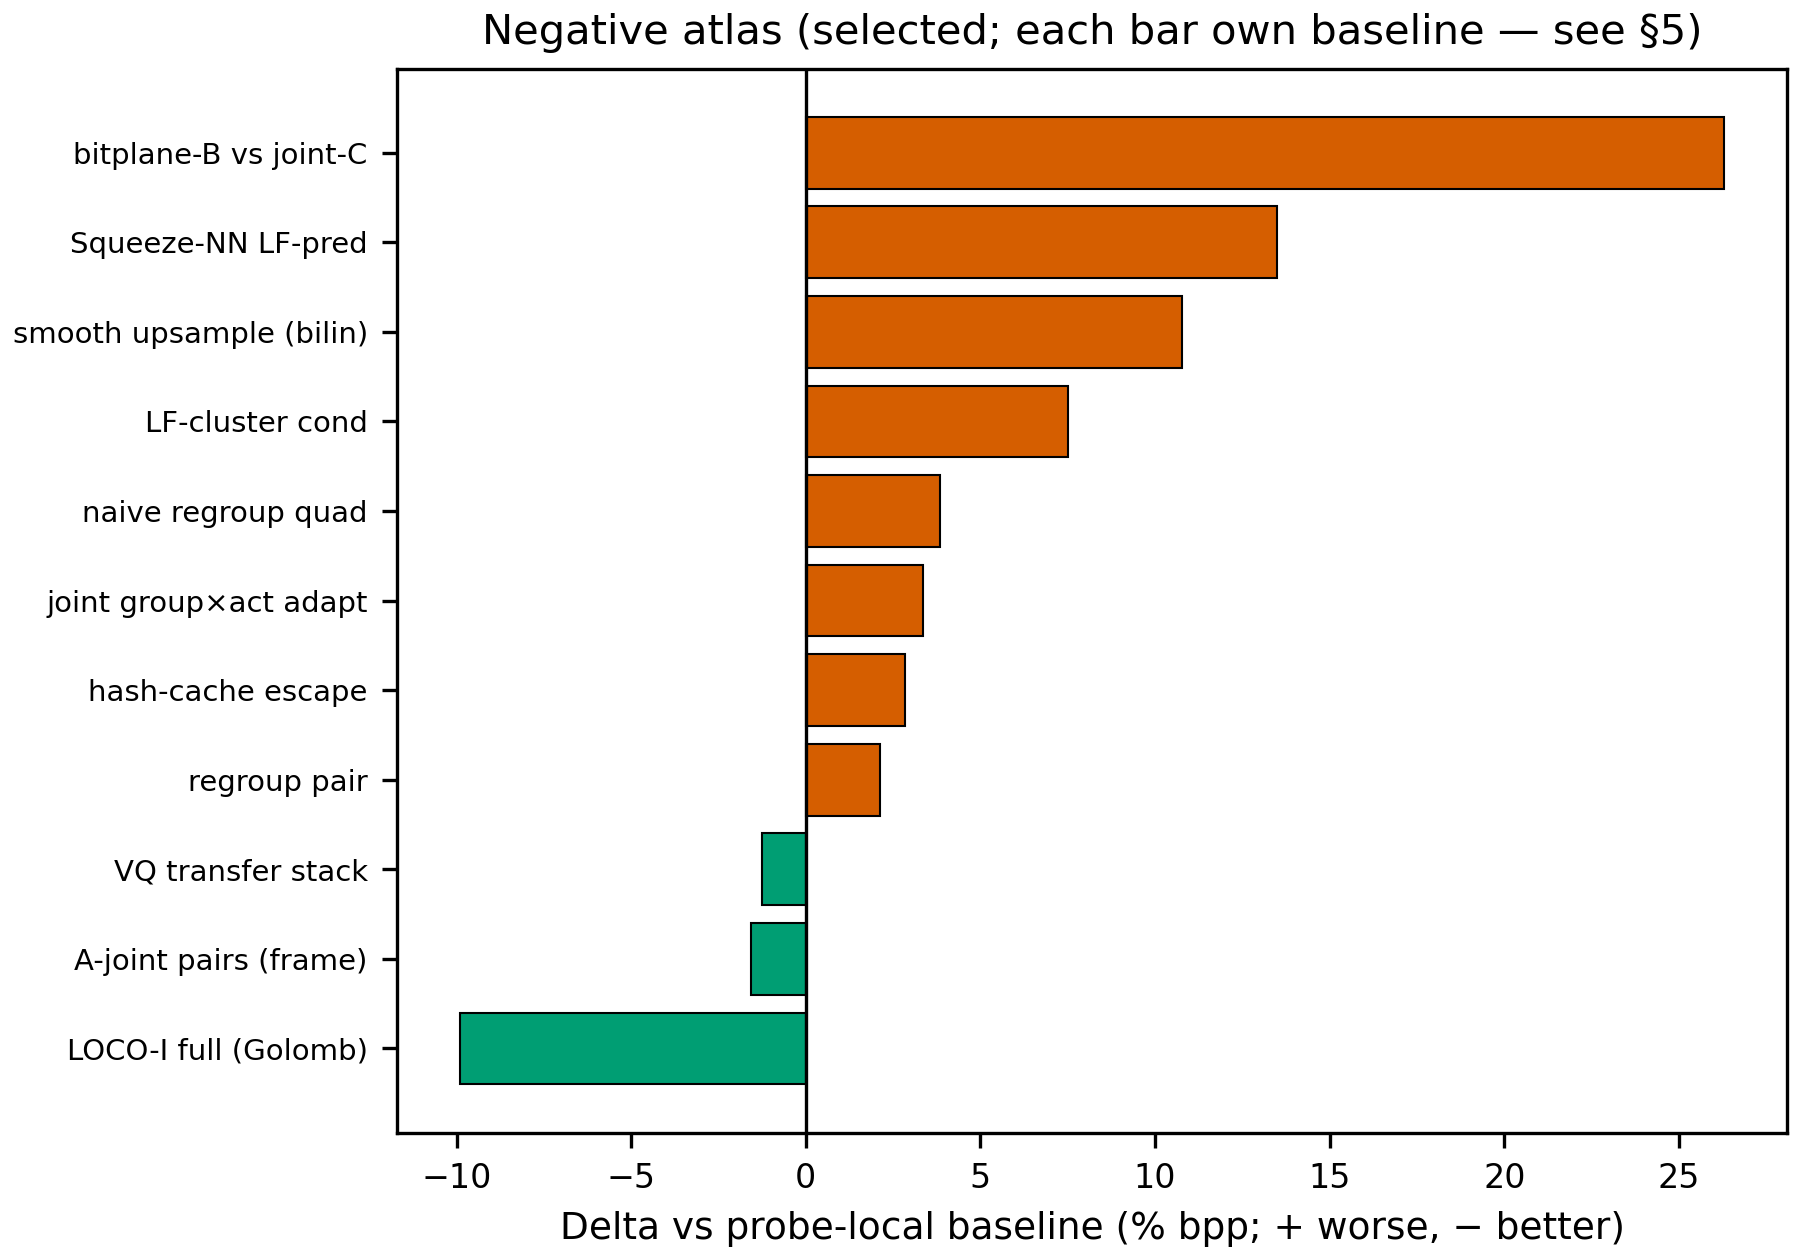
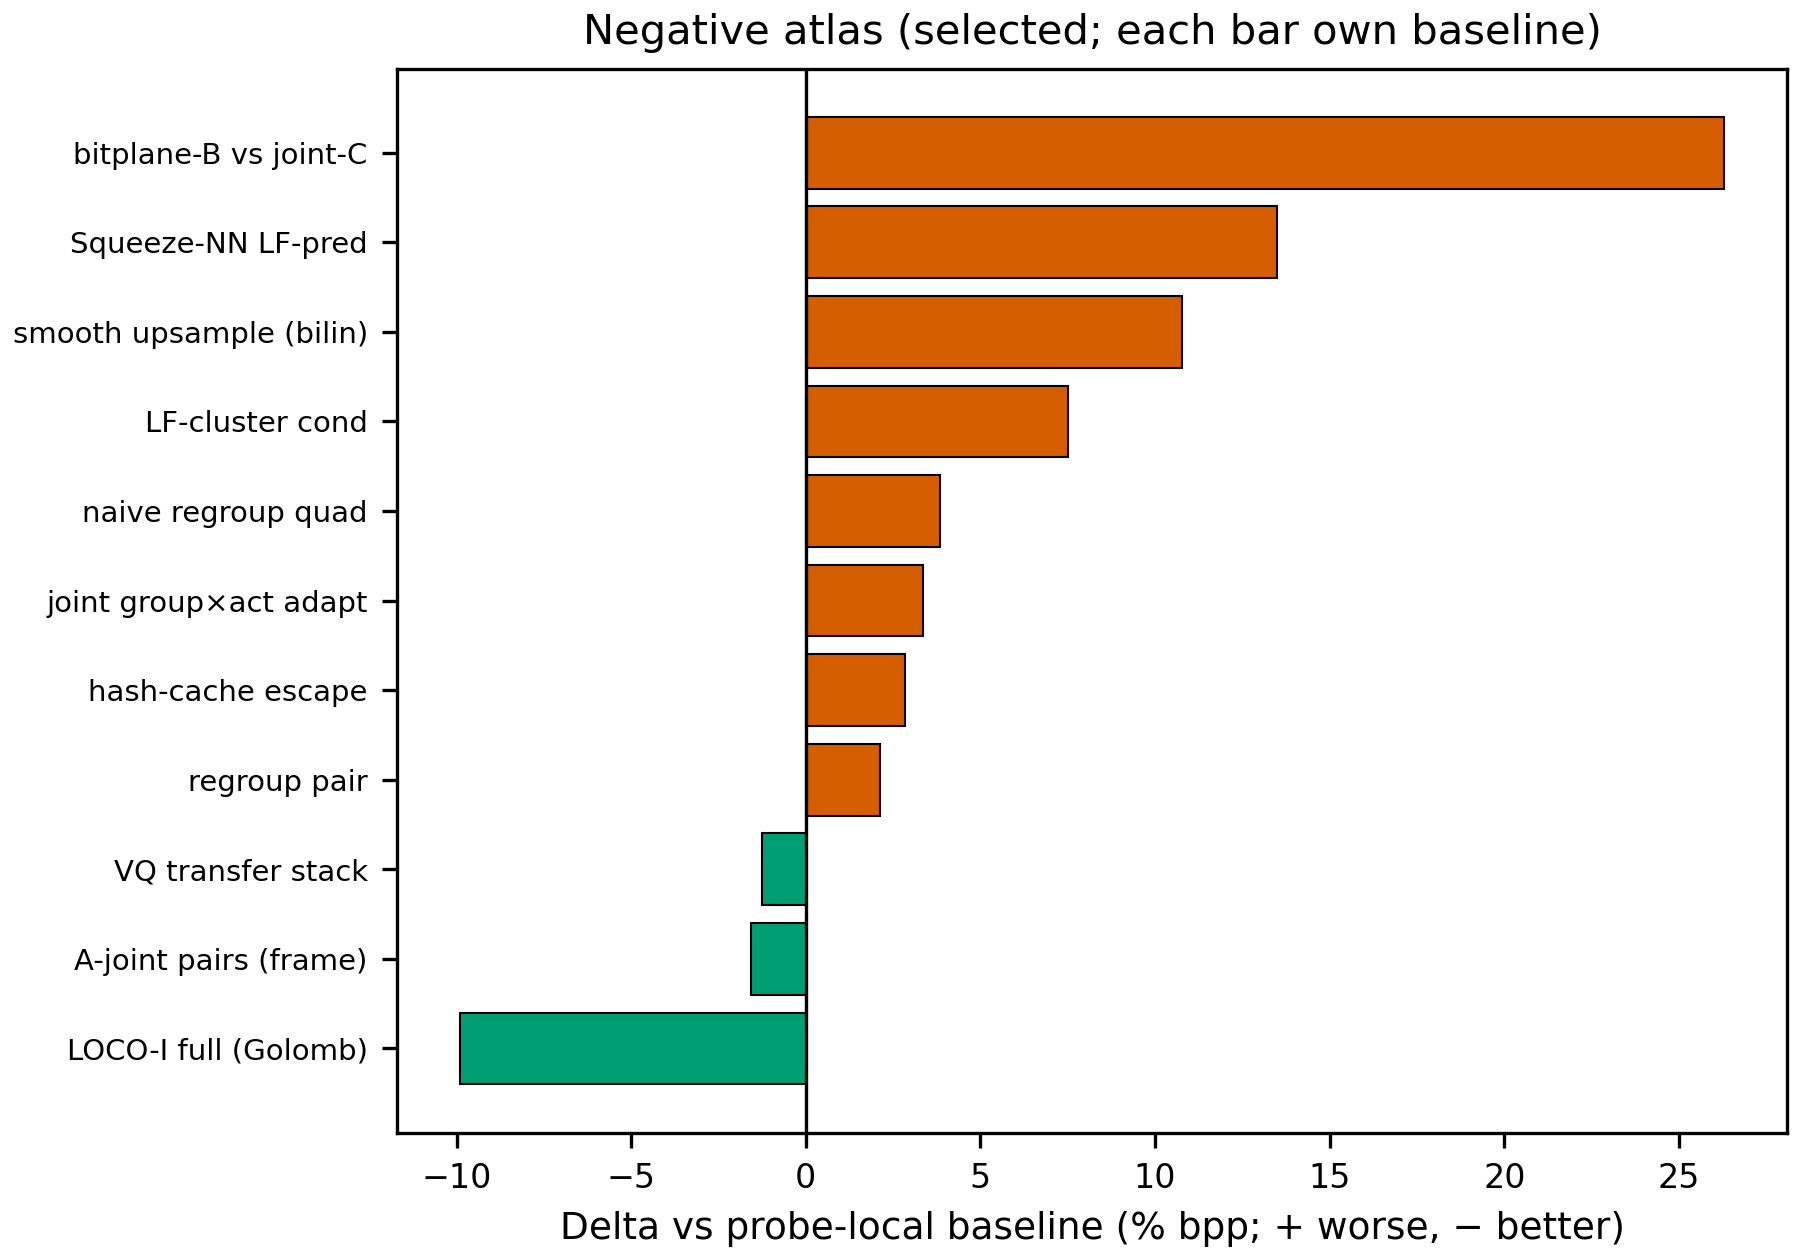
F4: drop dangling Section-5 pointer from figure title (baked pixels); paper PDF unchanged in paging

Changed region(s): [[0.28, 0.0, 0.9333, 0.0619]]

diff --git a/docs/figures/make_figures.py b/docs/figures/make_figures.py
@@ -188,7 +188,7 @@ def fig_f3():
     return fig
 
 # ---------------- F4: negative atlas (signed bars from 0) ----------------
-# Each bar vs its probe-local baseline (see §5); exact deltas banked.
+# Each bar vs its probe-local baseline (per-row ledgers); exact deltas banked.
 # 4-tuples: (family, delta_pct, level, baseline). Rows without a traceable
 # baseline in the ledgers are EXCLUDED (2026-09-10 audit: byte-LZ +1.84, GAP
 # crude mixer +3.70, LPC-3 +4.00, MA-tree-lite -0.56, I-GATED -0.29 have no
@@ -219,7 +219,7 @@ def fig_f4():
     ax.invert_yaxis()
     ax.axvline(0, color="black", linewidth=0.8)
     ax.set_xlabel("Delta vs probe-local baseline (% bpp; + worse, − better)")
-    ax.set_title("Negative atlas (selected; each bar own baseline — see §5)")
+    ax.set_title("Negative atlas (selected; each bar own baseline)")
     return fig
 
 
